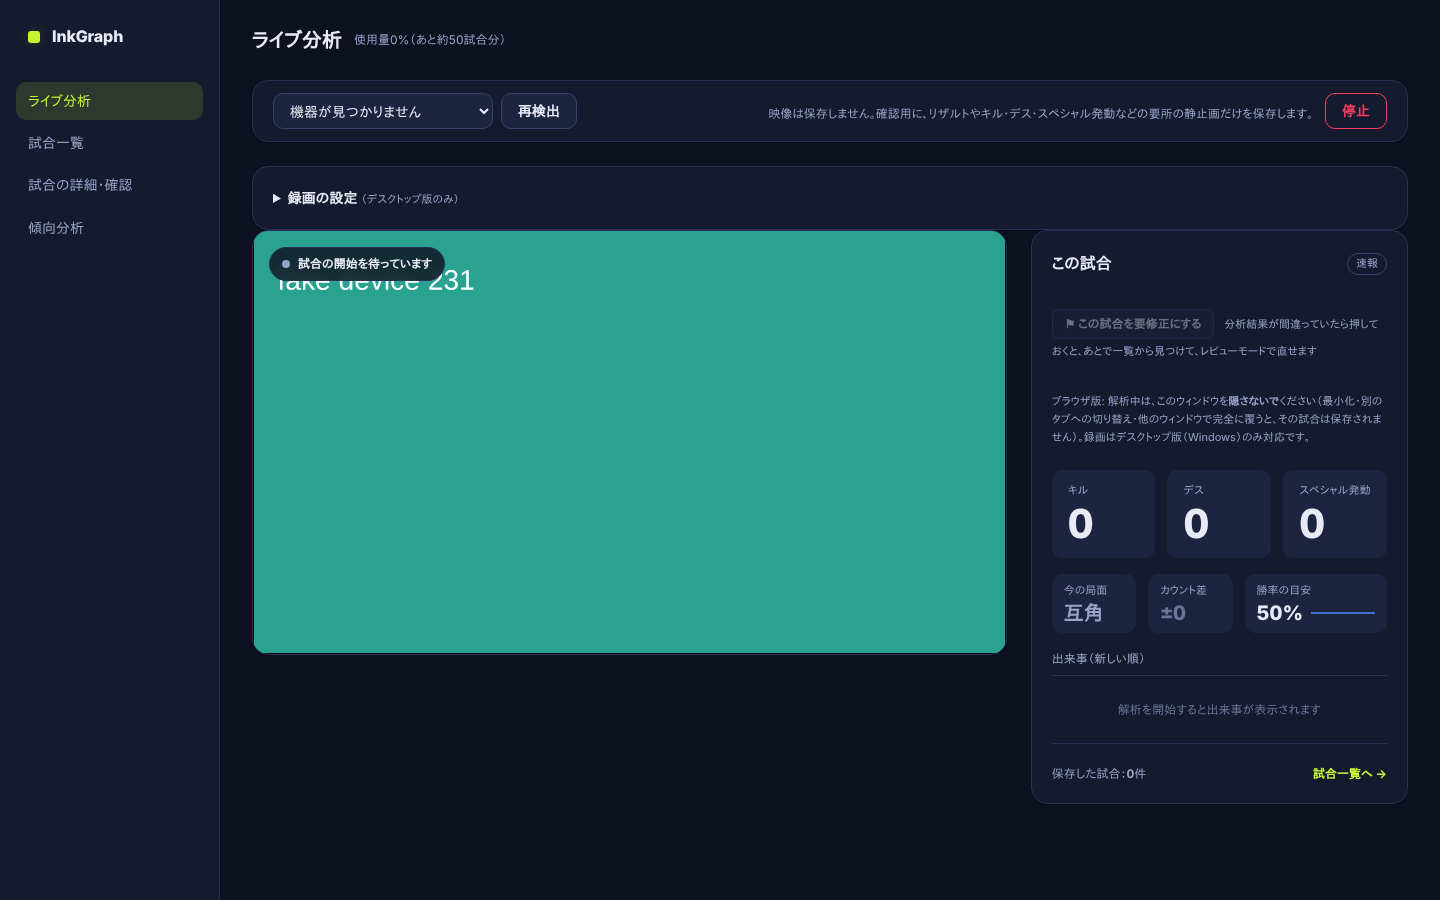
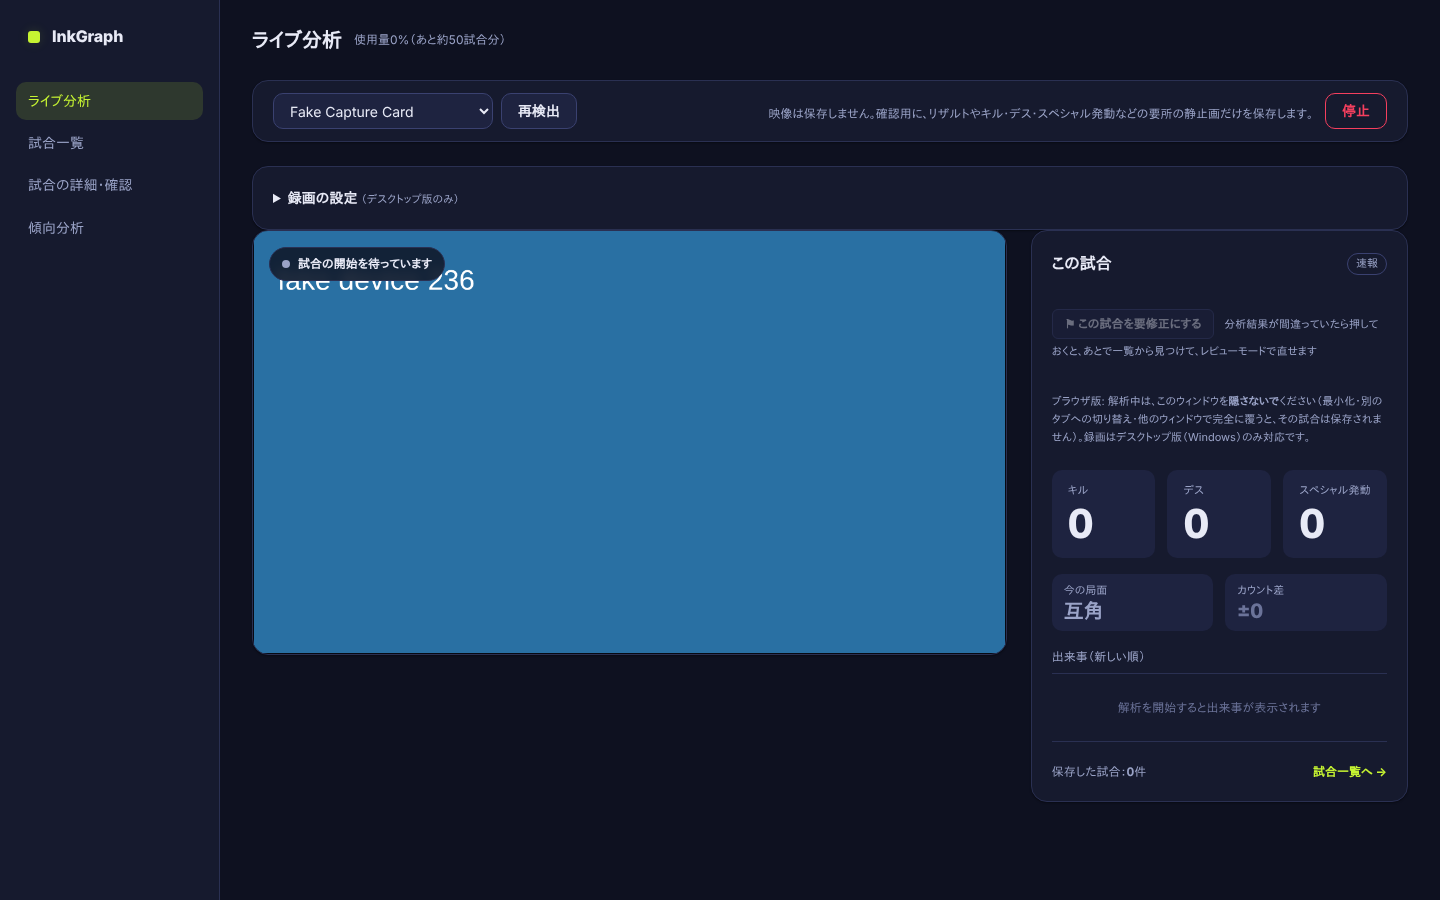
勝率予測の表示を一旦やめる (D81) (#179)
* 検証録画: 直近1試合の全コマ＋分析結果のzip書き出し (D67)

Claude-Session: https://claude.ai/code/session_018zsqgbHNLDpb8cVTBpk5SR

* 試合ごとの録画ファイル: ルール・ステージ入りの名前で1試合1ファイル (D68)

Claude-Session: https://claude.ai/code/session_018zsqgbHNLDpb8cVTBpk5SR

* 試合録画にゲーム音を追加 (D68追記)

Claude-Session: https://claude.ai/code/session_018zsqgbHNLDpb8cVTBpk5SR

* ブキアイコンの読み違い対策（ボードの数が読めない枠を捨てる・絵の無いアイコンを出さない）と記録の全消去ボタン (D69)

Claude-Session: https://claude.ai/code/session_018zsqgbHNLDpb8cVTBpk5SR

* 試合録画: 状況表示と保存先の書き込み許可の聞き直し (D70)

Claude-Session: https://claude.ai/code/session_018zsqgbHNLDpb8cVTBpk5SR

* 試合録画: 2試合連続で別ファイルになることのテストを追加

Claude-Session: https://claude.ai/code/session_018zsqgbHNLDpb8cVTBpk5SR

* Windows デスクトップ版（Electron）の追加。ブラウザ版は録画なし・隠さない注意つきで残す (D71)

Claude-Session: https://claude.ai/code/session_018zsqgbHNLDpb8cVTBpk5SR

* 録画の診断通知を各段階に追加 (D71追記)

Claude-Session: https://claude.ai/code/session_018zsqgbHNLDpb8cVTBpk5SR

* Windows版ビルドをmainの変更で自動実行し、固定リリース desktop-latest に出す

Claude-Session: https://claude.ai/code/session_018zsqgbHNLDpb8cVTBpk5SR

* ライブ映像で「早送り」が渡って録画・中断検出が切れていた不具合を修正 (D71追記)

Claude-Session: https://claude.ai/code/session_018zsqgbHNLDpb8cVTBpk5SR

* 録画形式をMP4(H.264)にする。WebMも選べる (D72)

Claude-Session: https://claude.ai/code/session_018zsqgbHNLDpb8cVTBpk5SR

* video_rec_check: 既定のMP4に合わせてテストを更新

Claude-Session: https://claude.ai/code/session_018zsqgbHNLDpb8cVTBpk5SR

* 録画を60fps・音声192kbpsに。画質(5/8/12Mbps)を選べる (D72追記)
[…]

diff --git a/web/src/timeline.js b/web/src/timeline.js
@@ -171,8 +171,10 @@ export function renderTimeline(m, { onSeek, onReviewChange, reviewMode, cands = 
   }
 
   // ---------------- 4. 勝率グラフ (132px >= 120px) ----------------
-  const wpY = ownY + ownH + 8, wpH = 132, wpMid = wpY + wpH / 2;
+  const SHOW_WP = false; // D81: 勝率予測は一旦出さない（計算と wp_delta の保存は残す）
+  const wpY = ownY + ownH + 8, wpH = SHOW_WP ? 132 : 0, wpMid = wpY + wpH / 2;
   const Ywp = v => wpY + wpH - 8 - Math.max(0, Math.min(1, v)) * (wpH - 16);
+  if (SHOW_WP) {
   defs += `<clipPath id="wp-up-${uid}"><rect x="${L}" y="${wpY}" width="${Wd}" height="${wpH / 2}"/></clipPath>`;
   defs += `<clipPath id="wp-dn-${uid}"><rect x="${L}" y="${wpMid}" width="${Wd}" height="${wpH / 2}"/></clipPath>`;
   body += `<text x="${L - 8}" y="${wpMid + 4}" text-anchor="end" font-size="12" font-weight="500" fill="var(--text-muted)">勝率</text>`;
@@ -188,6 +190,7 @@ export function renderTimeline(m, { onSeek, onReviewChange, reviewMode, cands = 
   body += `<g clip-path="url(#wp-dn-${uid})"><polygon points="${wpAreaPts}" fill="var(--enemy-soft)"/><polyline points="${wpLinePts}" fill="none" stroke="var(--winrate-down)" stroke-width="2"/></g>`;
   body += unknownBand(wpY, wpH);
   body += `<text x="${L + Wd + 4}" y="${wpMid + 4}" class="num" font-size="10" fill="var(--text-muted)">50%</text>`;
+  }
 
   // Draw events on Lane 3 (Self) + vertical dotted connectors to Lane 4 (Winrate)
   for (const e of ev) {
@@ -195,12 +198,12 @@ export function renderTimeline(m, { onSeek, onReviewChange, reviewMode, cands = 
     const x = X(e.t);
     const attr = `class="ev" data-t="${e.t}" style="cursor:pointer"`;
     if (e.kind === 'kill' || e.kind === 'death') {
-      const wy = Ywp(wpAt(m, S, e.t));
+      const wy = SHOW_WP ? Ywp(wpAt(m, S, e.t)) : 0;
       const sy = e.kind === 'kill' ? rowY.kill : rowY.death;
       const lineCol = e.kind === 'kill' ? 'var(--kill)' : 'var(--enemy)';
       // Vertical dotted connector from self lane to winrate point
-      body += `<line x1="${x.toFixed(1)}" x2="${x.toFixed(1)}" y1="${sy + 8}" y2="${wy.toFixed(1)}" stroke="${lineCol}" stroke-width="1" stroke-dasharray="2,3" stroke-opacity="0.75"/>`;
-      body += `<circle cx="${x.toFixed(1)}" cy="${wy.toFixed(1)}" r="3" fill="${e.wp_delta >= 0 ? 'var(--winrate-up)' : 'var(--winrate-down)'}"/>`;
+      if (SHOW_WP) body += `<line x1="${x.toFixed(1)}" x2="${x.toFixed(1)}" y1="${sy + 8}" y2="${wy.toFixed(1)}" stroke="${lineCol}" stroke-width="1" stroke-dasharray="2,3" stroke-opacity="0.75"/>`;
+      if (SHOW_WP) body += `<circle cx="${x.toFixed(1)}" cy="${wy.toFixed(1)}" r="3" fill="${e.wp_delta >= 0 ? 'var(--winrate-up)' : 'var(--winrate-down)'}"/>`;
       if (e.kind === 'kill') {
         body += `<g ${attr}><title>${mss(e.t - t0)} キル</title><text x="${x.toFixed(1)}" y="${rowY.kill + 6}" text-anchor="middle" font-size="17" fill="var(--kill)">★</text></g>`;
       } else {
@@ -213,7 +216,7 @@ export function renderTimeline(m, { onSeek, onReviewChange, reviewMode, cands = 
           : '';
         body += `<g ${attr}><title>${mss(e.t - t0)} デス</title><rect x="${x.toFixed(1)}" y="${rowY.death - 8}" width="${rw.toFixed(1)}" height="16" rx="3" fill="var(--respawn)"/><g class="death-mark" data-size="14" stroke="var(--death)" stroke-width="2" stroke-linecap="round"><line x1="${x1}" y1="${y1}" x2="${x2}" y2="${y2}"/><line x1="${x2}" y1="${y1}" x2="${x1}" y2="${y2}"/></g>${wastedTri}</g>`;
       }
-      if (e.wp_delta !== undefined && Math.abs(e.wp_delta) >= 0.05) {
+      if (SHOW_WP && e.wp_delta !== undefined && Math.abs(e.wp_delta) >= 0.05) {
         const dp = Math.round(e.wp_delta * 100);
         const dTxt = dp > 0 ? `+${dp}%` : `\u2212${Math.abs(dp)}%`;
         const dCol = dp > 0 ? 'var(--winrate-up)' : 'var(--winrate-down)';
@@ -431,13 +434,11 @@ export function renderTimeline(m, { onSeek, onReviewChange, reviewMode, cands = 
     const s = S.length ? T.at(S, t) : null;
     const ph = T.phase(s) || '互角';
     const diff = s ? s.diff : 0;
-    const wp = Math.round(wpAt(m, S, t) * 100);
 
     tooltip.innerHTML = `
       <span class="num">${mss(t - t0)}</span>
       <span class="phase-badge ${phaseClass(ph)}">${ph}</span>
       <span class="num ${diffClass(diff)}">カウント差 ${fmtDiff(diff)}</span>
-      <span class="num">勝率 ${wp}%</span>
     `;
     tooltip.style.display = 'inline-flex';
     const rect = wrap.getBoundingClientRect();

diff --git a/web/src/core/analyzer.js b/web/src/core/analyzer.js
@@ -9,6 +9,7 @@ import { LiveSpecialTracker } from './live_special.js';
 import { countCheck } from '../count_check.js';
 import { fuseDeath, fusedAccept, fuseKill, FUSE } from './fusion.js';
 import { packCues } from './cues_pack.js';
+import { LiveKillCounter } from './live_counts.js';
 export const P = { icon_th: 0.7, med: 5, minlen: 2.0, gap: 2.5, cover: 3.0, sig_gap: 4.0, sp_min: 0.3, dead_max_sat: 55, battle_gap: 25, battle_min: 60, result_max: 240, sp_drain_min: 0.15, sp_drain_win: 1.5, sp_end_tol: 0.5, sig_th: 0.5, ready_th: 0.2, sp_gap: 3.0, kill_th: 0.6 }; // sig_gap is kept for backwards compatibility (unused in mergeDeathRuns)
 
 export function specialOutcome(a, b, deathStarts, t, go, lastOk = null) {
@@ -73,7 +74,7 @@ export class DeathLatch {
 
 export class Analyzer {
   constructor(A, opts = {}) { this.A = A; this.srcH = opts.srcH || 1080; this.onMatch = opts.onMatch || (() => {}); this.onEvent = opts.onEvent || (() => {}); this.matchNo = opts.matchNo || 1; this.learnThresholds = opts.learnThresholds || null; this.state = 'idle'; this.cur = null; this.lastT = 0; this.towerNext = 0; this.deathLatch = new DeathLatch(1.0); this.liveSp = new LiveSpecialTracker(); }
-  newBattle(t) { this.deathLatch.reset(); this.liveSp.reset(); this.cur = { a: t, lastTp: t, F: [], hist: [new Uint32Array(180), new Uint32Array(180)], hueN: 0, th: null, kscan: [], pend: [], tower: [], RS: { celebration: [], personal: [], board: [] }, lastRes: null, snaps: [], spPrev: 1 }; this.state = 'battle'; this.towerNext = t; this.onEvent({ type: 'battle_start', t }); }
+  newBattle(t) { this.deathLatch.reset(); this.liveSp.reset(); this.cur = { a: t, kc: new LiveKillCounter(), lastTp: t, F: [], hist: [new Uint32Array(180), new Uint32Array(180)], hueN: 0, th: null, kscan: [], pend: [], tower: [], RS: { celebration: [], personal: [], board: [] }, lastRes: null, snaps: [], spPrev: 1 }; this.state = 'battle'; this.towerNext = t; this.onEvent({ type: 'battle_start', t }); }
   frame(fr, t) {
     this.lastT = t; const tp = C.timerPresent(this.A, fr);
     if (this.state !== 'battle' && tp) { if (this.state === 'result') this.finish(); this.newBattle(t); }
@@ -107,11 +108,7 @@ export class Analyzer {
     if (this.deathLatch.update(sg.dead, tp, mp, t)) { this.liveSp.death(t); this.onEvent({ type: 'own_death', t }); if (A.killer) m.kscan.push({ t0: t, reads: [] }); }
     for (const e of this.liveSp.frame({ t, gw, ok: tp, map: mp, dead: sg.dead })) this.onEvent(e);
     this.killerStep(fr, t);
-    const prevSlots = (m.F.length && m.F[m.F.length - 1].killSlots) ? m.F[m.F.length - 1].killSlots : [];
-    for (let i = 0; i < killSlots.length; i++) {
-      const prev = i < prevSlots.length ? !!prevSlots[i] : false;
-      if (killSlots[i] && !prev) this.onEvent({ type: 'own_kill', t });
-    }
+    for (let j = m.kc.step(killSlots); j > 0; j--) this.onEvent({ type: 'own_kill', t }); // D82: 速報のキル（live_counts.js の LiveKillCounter）
     m.F.push(f);
   }
   // D47: デス直後のデスカメ吹き出し「<ブキ名> で / やられた!」を +1〜+8 秒の間だけ読む

diff --git a/web/src/main.js b/web/src/main.js
@@ -489,16 +489,6 @@ PAGES.live = async () => {
             <span class="stat-label">カウント差</span>
             <span class="live-context-val num count-zero" id="live-diff">±0</span>
           </div>
-          <div class="live-context-box">
-            <span class="stat-label" style="white-space:nowrap">勝率の目安</span>
-            <div style="display:flex;align-items:center;justify-content:space-between;gap:8px;margin-top:2px">
-              <span class="live-context-val num" id="live-wp">50%</span>
-              <svg id="live-spark" viewBox="0 0 100 24" width="64" height="20" style="flex:1;max-width:72px">
-                <line x1="0" x2="100" y1="12" y2="12" stroke="var(--border-strong)" stroke-dasharray="2,2"/>
-                <polyline id="live-spark-line" fill="none" stroke="var(--ally)" stroke-width="2" points="0,12 100,12"/>
-              </svg>
-            </div>
-          </div>
         </div>
 
         <div>
@@ -539,8 +529,10 @@ PAGES.live = async () => {
 
   const wpHistory = [50];
   const updateSpark = wpPct => {
+    if (!$('#live-wp', page)) return; // D81: 勝率の目安は出さない
     wpHistory.push(wpPct);
     if (wpHistory.length > 24) wpHistory.shift();
+    if (!$('#live-wp', page)) return;
     $('#live-wp', page).textContent = `${Math.round(wpPct)}%`;
     const pts = wpHistory.map((v, i) => {
       const x = wpHistory.length === 1 ? 100 : (i / (wpHistory.length - 1)) * 100;

diff --git a/web/src/core/live_counts.js b/web/src/core/live_counts.js
@@ -33,3 +33,19 @@ export function recountDiff(live = {}, fin = {}, fields = COUNT_FIELDS) {
 
   return { changed, text };
 }
+
+/**
+ * D82: 速報のキル数。「たおした」通知は、新しい通知が出ると古いものが上の段へ繰り上がる。段ごとの立ち上がりで数えると、同じ通知を何度も数える。
+ * そこで、出ている通知の数 n が増えたときだけ、増えた分を数える。n が変わったら、2 フレーム続けて同じ数のときに確定する（1 フレームのちらつきは無視）。
+ * step(slots) は、このフレームで新しく数えるキルの数を返す。
+ */
+export class LiveKillCounter {
+  constructor(confirm = 2) { this.confirm = confirm; this.n = 0; this.cand = null; this.cc = 0; }
+  step(slots) {
+    const n = slots.reduce((c, v) => c + (v ? 1 : 0), 0);
+    if (n === this.n) { this.cand = null; this.cc = 0; return 0; }
+    if (n === this.cand) this.cc++; else { this.cand = n; this.cc = 1; }
+    if (this.cc < this.confirm) return 0;
+    const add = Math.max(0, n - this.n); this.n = n; this.cand = null; this.cc = 0; return add;
+  }
+}

diff --git a/web/src/style.css b/web/src/style.css
@@ -679,7 +679,7 @@ button, input, select {
 
 .live-context-row {
   display: grid;
-  grid-template-columns: 1fr 1fr 1.2fr;
+  grid-template-columns: 1fr 1fr;
   gap: var(--sp-3);
   align-items: stretch;
 }

diff --git a/docs/DECISIONS.md b/docs/DECISIONS.md
@@ -891,3 +891,15 @@
 - 記録の `recording.t0`（動画の 0 秒の解析時刻）は `録画開始 + 切った秒数` にそろえる（`recording.cut` に理由と暗転区間を残す）。動画位置＝解析時刻 − t0 の関係は変わらない。
 - 巻き戻し録画がない場合（リング未起動・録画の途中から始めた場合など）は従来どおりバトル開始から録る。
 - 検証：`web/tools/rec_cut_check.mjs`（開始点の選び方 8 件）、`desktop/tools/desktop_check.js`（(36)〜(39)：昇格・暗転から録る・t0 が合う・動画の長さ）。**実機の Windows・実際のキャプチャ映像（暗転の明るさ・長さ、待機録画の負荷とメモリ 約 60MB）は未検証**。しきい値（輝度 10・0.4 秒・開始 1 秒前）は調整できるようにしてある。
+
+## D81 (2026-10-29) 勝率予測（「勝率の目安」）の表示を一旦やめる
+- 背景：`tower.js` の `wp`（カウント差・生存数・保持を足してシグモイドを通す式）は、係数が経験則の手置きで、実際の勝敗に当てはめて検証していない。
+- 消したもの（表示だけ）：ライブ画面の「勝率の目安」ボックス、タイムラインの勝率グラフ・キル／デスから勝率グラフへの点線と点・「+◯%／−◯%」の表示、タイムラインのホバーの「勝率 ◯%」。タイムラインの `SHOW_WP` フラグで戻せる。
+- **残したもの**：`wp` の計算と、イベントの `wp_before/after/delta` の保存、詳細ページの「勝率の変化」列、傾向画面の「勝率を大きく下げたデス／上げたキル」「デスで失った勝率」（これらの精度は今後上げる）。集計の勝率（勝ち数÷試合数）も変更なし。
+- 次：係数の当てはめ。試合単位の leave-one-match-out、Brier スコア（基準＝常に 50%・今の手置き係数）、較正、進行度別、試合数の下限（ルールごとに 30 試合など）を満たしたときだけ採用、ルール別の係数。
+
+## D82 (2026-10-29) 速報のキル数を「通知の数が増えたとき」だけ数える
+- 課題：ライブ画面の速報で、キルの数が異常に多くなる。原因：速報のキルは、「たおした」通知の**段（スロット）ごとの立ち上がり**をフレームごとにそのまま数えていた（平滑化なし）。新しい通知が出ると古い通知が上の段へ繰り上がるので、**同じ通知を段ごとに何度も数える**。1 フレームのちらつきでも増える。保存後の記録は、段ごとの区間にまとめて合議（D53）で絞るので、ここまで増えない。
+- 対応：`LiveKillCounter`（`core/live_counts.js`）。出ている通知の**数 n が増えたとき、増えた分だけ**数える。n が変わったら **2 フレーム続けて同じ数**のときに確定する（1 フレームのちらつきは無視）。繰り上がりでは n が変わらないので増えない。前の通知が残っているうちの 2 つ目は数える。
+- 限界：1 フレーム（約 0.2 秒）だけ通知が消えて戻るのと、実際に消えて出るのは区別できない。解析のコマ落ちが多いと確定が遅れる。
+- 検証：`web/tools/live_kill_check.mjs`（6 件）。実映像・連戦での確認は未実施。連戦で増え方が大きくなる理由は、コードからは特定できていない（解析エンジンの状態は試合ごとに作り直している）。
